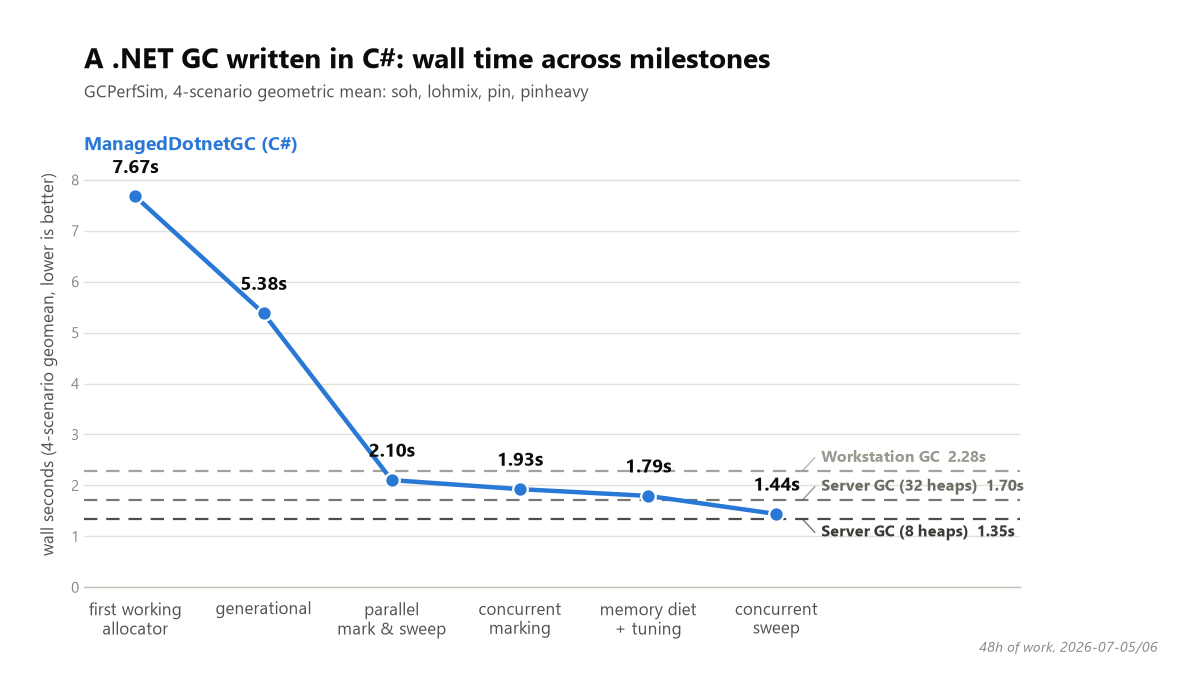
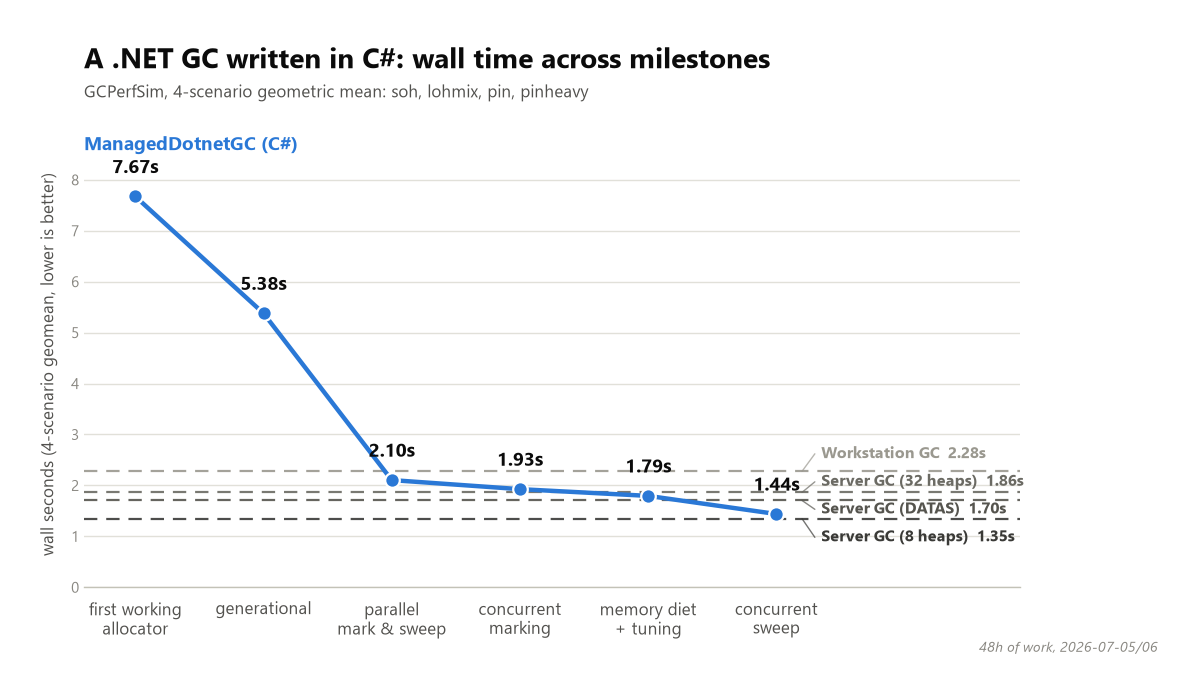
DATAS discovery: bare gcServer=1 was never fixed-32 - relabel, measure real h32, 4-line charts
Kevin caught it from the memory numbers: on .NET 9+ DATAS is on by default, so
every stock-svr row in the archive was the adaptive mode (hence ~1.2 GB peaks
and the high-variance walls), not heap-per-core. True fixed 32-heap Server GC,
measured for the first time: geomean 1.86 s at 6.18 GB geomean / 7.6 GB peak -
slower than DATAS and ~4x its memory, sitting just under our own sticky-era
plateau. bench-gcperfsim.ps1 now labels bare server rows stock-svr-datas and
pins DOTNET_GCDynamicAdaptationMode=0 on -HeapCount rows (also clears leftover
GCConcurrentSweep). Both milestone charts now carry four reference lines
(Workstation / DATAS / 8 heaps / 32 heaps); results doc tables corrected.

Changed region(s): [[0.6475, 0.6533, 0.8633, 0.8089]]

diff --git a/experiments/results/2026-07-06-milestone-graph/plot_milestones_nonum.py b/experiments/results/2026-07-06-milestone-graph/plot_milestones_nonum.py
@@ -15,10 +15,14 @@ milestones = [
     ("concurrent\nsweep", 1.438),
 ]
 
+# (label, line y, explicit label y — slots picked to clear every dashed line and each
+# other; DATAS discovery 2026-07-06: bare gcServer=1 adapts heap count, fixed-32 is
+# its own config)
 stock_refs = [
-    ("Workstation GC", 2.276, "#9a988f"),
-    ("Server GC (32 heaps)", 1.704, "#6b6a63"),
-    ("Server GC (8 heaps)", 1.347, "#3a3a37"),
+    ("Workstation GC", 2.276, 2.62, "#9a988f"),
+    ("Server GC (32 heaps)", 1.863, 2.07, "#6b6a63"),
+    ("Server GC (DATAS)", 1.704, 1.53, "#55544e"),
+    ("Server GC (8 heaps)", 1.347, 0.98, "#3a3a37"),
 ]
 
 MAIN_COLOR = "#2a78d6"
@@ -53,20 +57,12 @@ ax.set_ylim(ymin, ymax)
 # each to its true line with a short leader.
 label_x = len(milestones) - 1 + 0.35
 line_end_x = len(milestones) - 1 + 0.20
-CLEARANCE = 0.27  # keeps each label clear of its own dashed line (no strikethrough)
-# The three values are clustered (2.28 / 1.70 / 1.35). The top two get room above their
-# own line; the bottom-most (lowest value) has open space below it down to y=0, so it
-# is labeled below instead — this keeps every label comfortably clear of every line
-# without needing an iterative stagger.
-sorted_refs = sorted(stock_refs, key=lambda r: -r[1])  # WKS, Server GC, Server GC (8 heaps)
-directions = ["above", "above", "below"]
 
-for (label, val, color), direction in zip(sorted_refs, directions):
-    dy = val + CLEARANCE if direction == "above" else val - CLEARANCE
+for label, val, label_y, color in stock_refs:
     ax.axhline(val, color=color, linestyle=(0, (6, 4)), linewidth=1.6, alpha=0.9, zorder=2)
-    ax.plot([line_end_x, label_x - 0.05], [val, dy], color=color, linewidth=1.0,
+    ax.plot([line_end_x, label_x - 0.05], [val, label_y], color=color, linewidth=1.0,
             alpha=0.7, zorder=2, solid_capstyle="round")
-    ax.text(label_x, dy, f"{label}  {val:.2f}s",
+    ax.text(label_x, label_y, f"{label}  {val:.2f}s",
             color=color, fontsize=11.5, va="center", ha="left", fontweight="bold")
 
 # ---- hero line ----

diff --git a/experiments/results/2026-07-06-milestone-graph/plot_milestones_ws.py b/experiments/results/2026-07-06-milestone-graph/plot_milestones_ws.py
@@ -16,10 +16,13 @@ milestones = [
     ("concurrent\nsweep", 2.434),
 ]
 
+# (label, line y, explicit label y). DATAS discovery 2026-07-06: bare gcServer=1 is
+# adaptive (that is what held 1.64 GB); classic fixed heap-per-core costs 6.18 GB.
 stock_refs = [
-    ("Workstation GC", 1.579, "#9a988f"),
-    ("Server GC (32 heaps)", 1.635, "#6b6a63"),
-    ("Server GC (8 heaps)", 2.492, "#3a3a37"),
+    ("Server GC (32 heaps)", 6.177, 5.60, "#6b6a63"),
+    ("Server GC (8 heaps)", 2.492, 3.10, "#3a3a37"),
+    ("Server GC (DATAS)", 1.635, 1.05, "#55544e"),
+    ("Workstation GC", 1.579, 0.55, "#9a988f"),
 ]
 
 MAIN_COLOR = "#2a78d6"
@@ -58,12 +61,8 @@ ax.set_ylim(ymin, ymax)
 # stay clear of both each other and the hero value-labels at x=4,5.
 label_x = len(milestones) - 1 + 0.35
 line_end_x = len(milestones) - 1 + 0.20
-CLEARANCE = 0.27  # keeps each label clear of its own dashed line (no strikethrough)
-sorted_refs = sorted(stock_refs, key=lambda r: -r[1])  # Server(8h), Server(32h), WKS
-directions = ["above", "above", "below"]
 
-for (label, val, color), direction in zip(sorted_refs, directions):
-    dy = val + CLEARANCE if direction == "above" else val - CLEARANCE
+for (label, val, dy, color) in stock_refs:
     ax.axhline(val, color=color, linestyle=(0, (6, 4)), linewidth=1.6, alpha=0.9, zorder=2)
     ax.plot([line_end_x, label_x - 0.05], [val, dy], color=color, linewidth=1.0,
             alpha=0.7, zorder=2, solid_capstyle="round")

diff --git a/experiments/results/2026-07-06-m65s2-bitmap-walks-and-assist.md b/experiments/results/2026-07-06-m65s2-bitmap-walks-and-assist.md
@@ -11,10 +11,22 @@ Fresh matrix at session start (`svrgap`), median wall seconds (peak WS MB):
 | gc | soh | lohmix | pin | pinheavy |
 |---|---|---|---|---|
 | stock-wks | 2.205 (1064) | 2.378 (1382) | 2.099 (1063) | 2.437 (4363) |
-| stock-svr (32 heaps) | 1.696 (1185) | 1.722 (1259) | 1.659 (1190) | 1.742 (4434) |
+| stock-svr (DATAS)* | 1.696 (1185) | 1.722 (1259) | 1.659 (1190) | 1.742 (4434) |
 | stock-svr-h8 | 1.234 (2179) | 1.339 (2102) | 1.275 (2175) | 1.562 (4312) |
+| stock-svr-h32 (fixed)* | 1.849 (7136) | 1.782 (4283) | 1.810 (7118) | 2.021 (7635) |
 | custom (HEAD `765f680`) | 1.774 (2123) | 1.724 (2139) | 1.774 (2183) | 1.741 (3929) |
 | custom + csweep knob | 1.804 | 1.692 | 1.736 | 1.759 |
+
+\* Kevin's evening catch, retro-applied to this table: bare `gcServer=1` on .NET 9+
+is **DATAS** — the heap count adapts to the workload — not a fixed 32-heap config.
+It explains the "SVR-32" rows' low memory and high variance across every previous
+matrix; the truly fixed heap-per-core config (h32 row, measured once the discovery
+landed) is *slower than DATAS* (geomean 1.86 vs 1.70) **and holds 6.2 GB geomean /
+7.6 GB peak** — nearly our sticky-era footprint. The "over-partitioned budgets"
+reading of earlier matrices was half-right: fixed-32 is indeed bad for a 4-thread
+allocator, and DATAS exists precisely to adapt away from it, trading throughput for
+footprint. bench-gcperfsim.ps1 now labels bare server rows `stock-svr-datas` and
+pins `DOTNET_GCDynamicAdaptationMode=0` on `-HeapCount` rows.
 
 Two facts drove the session:
 
@@ -97,14 +109,18 @@ Final matrix (`m65s2-final`, after the window-bound fix; the earlier
 |---|---|---|---|---|
 | custom | 1.440 (2111) | 1.393 (2193) | 1.461 (2067) | 1.461 (3981) |
 | vs stock-wks | **0.65** | **0.59** | **0.70** | **0.60** |
-| vs stock-svr (default) | **0.85** | **0.81** | **0.88** | **0.84** |
+| vs stock-svr (DATAS, the default) | **0.85** | **0.81** | **0.88** | **0.84** |
+| vs stock-svr-h32 (fixed) | **0.78** | **0.78** | **0.81** | **0.72** |
 | vs stock-svr-h8 | 1.17 | 1.04 | 1.15 | **0.94** |
 
 Read honestly:
 
-- **Default Server GC is beaten on every scenario, by 12-19%** — at ~1.8× its peak
-  working set (2.1 vs 1.2 GB; pinheavy: 4.0 vs 4.4 GB, *below* it). One session ago
-  the best case was parity.
+- **Default Server GC (= DATAS) is beaten on every scenario, by 12-19%** — at ~1.8×
+  its peak working set (2.1 vs 1.2 GB; pinheavy: 4.0 vs 4.4 GB, *below* it). DATAS
+  deliberately trades throughput for footprint, so that memory premium is the two
+  collectors sitting at different points of the same curve.
+- **Classic fixed heap-per-core Server GC (h32) is beaten on both axes at once**:
+  19-28% faster at a third of its memory (2.1 vs 6.2 GB geomean).
 - **The tuned SVR-h8 row is beaten on pinheavy (0.94×) and matched on lohmix
   (1.04×)** — at byte-identical peak memory (ours 2067-2193 MB, theirs 2102-2179).
   soh (1.17) and pin (1.15) remain, and their remaining gap is measured, not

diff --git a/experiments/results/perf-history.md b/experiments/results/perf-history.md
@@ -362,6 +362,18 @@ suite: soh/pin under 1×, lohmix tied, pinheavy won by 30% — young pauses p50 
   Unlike stock (SVR-32 vs -h8: 27-37%, budget partitioning), our knob is collector
   threads only — allocation is unpartitioned at any setting.
 
+- **DATAS discovery (Kevin, 2026-07-06 evening) — reinterpret every `stock-svr` row
+  in this archive.** Bare `gcServer=1` on .NET 9+ runs **DATAS**: the heap count
+  adapts to the workload (that is what held ~1.2 GB and produced the "high-variance
+  SVR rows" this file kept apologizing for). Fixed heap-per-core was never measured
+  until today: `stock-svr-h32` (svrgap sitting, `DOTNET_GCHeapCount=0x20` +
+  `DOTNET_GCDynamicAdaptationMode=0`) runs geomean **1.86 s at 6.18 GB geomean /
+  7.6 GB peak** — slower than DATAS (1.70) and ~4× its memory. The old
+  "over-partitioned budgets" reading was half-right; DATAS exists to adapt away
+  from exactly that. Protocol change: bench-gcperfsim.ps1 now labels bare server
+  rows `stock-svr-datas` and pins adaptation off on `-HeapCount` rows; public
+  charts carry four stock reference lines (WKS / DATAS / h8 / h32).
+
 ```powershell
 # after any perf-relevant commit (GC dll = Release publish):
 dotnet publish .\ManagedDotnetGC /p:SelfContained=true -r win-x64 -c Release
